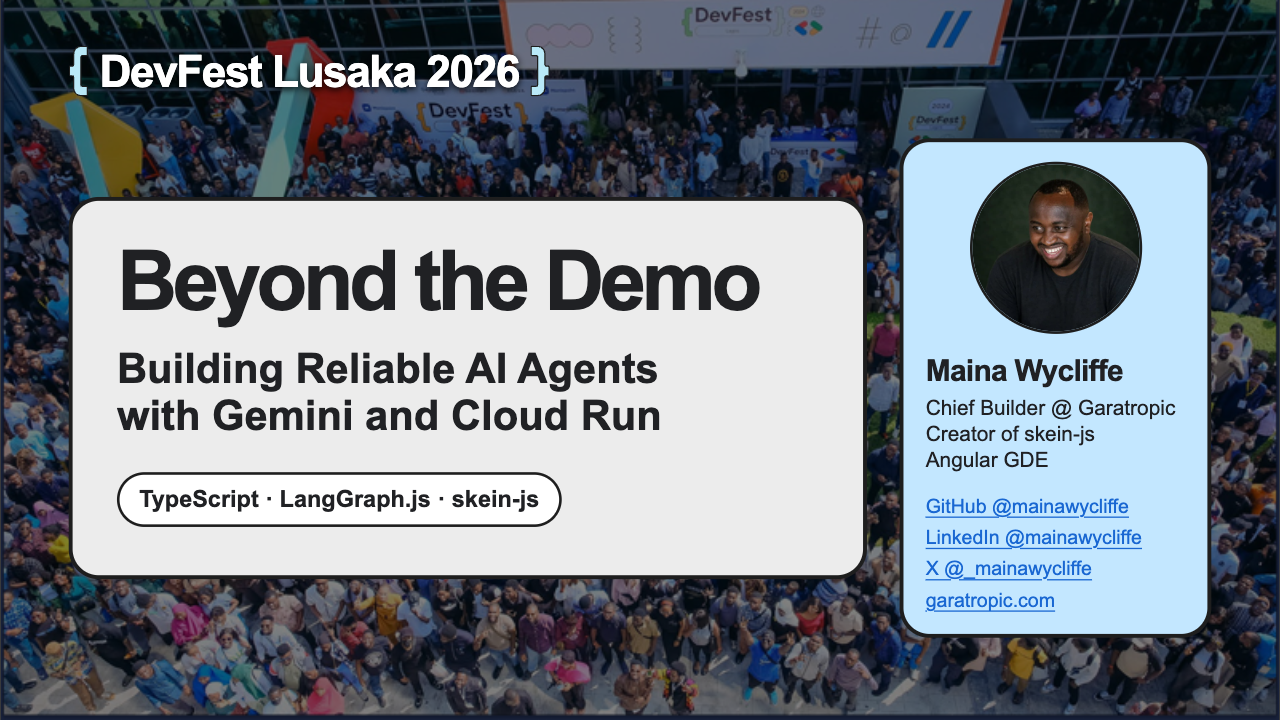
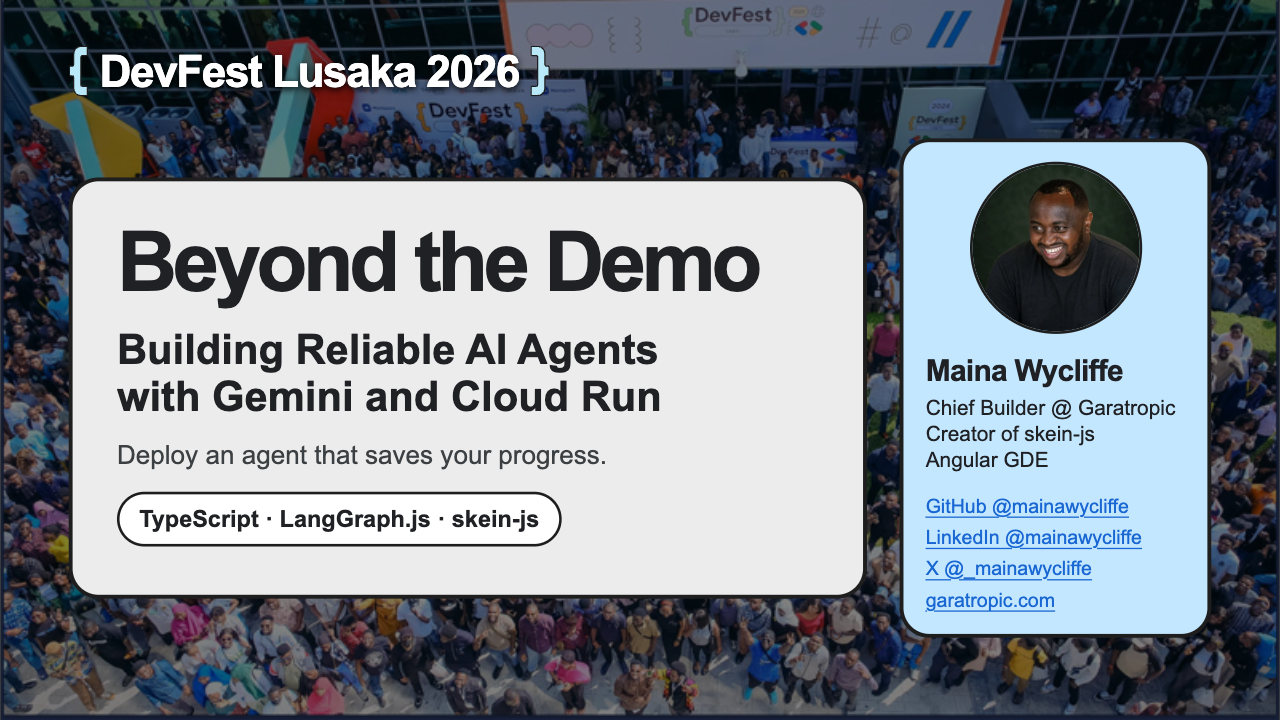
Simplify the DevFest Lusaka workshop slides

Changed region(s): [[0.0312, 0.2444, 0.6875, 0.7639], [0.0312, 0.7639, 0.6875, 0.8556]]

diff --git a/slides/devfest-lusaka-2026/style.css b/slides/devfest-lusaka-2026/style.css
@@ -69,7 +69,8 @@
 .cover-title-card { padding: 31px 34px 37px; background: var(--hero-panel); }
 .cover h1 { margin: 0 0 17px; font-size: 64px; line-height: 0.99; letter-spacing: -0.055em; }
 .slidev-layout .cover-subtitle { margin: 0; color: var(--ink); font-size: 32px; font-weight: 650; line-height: 1.13; opacity: 1; }
-.slidev-layout .cover-stack { display: inline-block; margin: 24px 0 0; padding: 7px 15px; border: 2px solid var(--outline); border-radius: 99px; background: var(--paper); font-size: 18px; font-weight: 650; }
+.slidev-layout .cover-goal { margin: 14px 0 0; color: var(--muted); font-size: 20px; }
+.slidev-layout .cover-stack { display: inline-block; margin: 16px 0 0; padding: 7px 15px; border: 2px solid var(--outline); border-radius: 99px; background: var(--paper); font-size: 18px; font-weight: 650; }
 .cover-speaker { overflow: hidden; background: var(--hero-blue); }
 .cover-speaker img { display: block; width: 132px; height: 132px; margin: 15px auto 0; border: 2px solid var(--outline); border-radius: 50%; object-fit: cover; object-position: center 44%; }
 .slidev-layout .cover-speaker figcaption { margin: 0; padding: 13px 17px 16px; color: var(--ink); }
@@ -86,7 +87,6 @@
 .playground-preview video { height: 100%; }
 .slidev-layout .hero-question blockquote { margin: 0 0 16px; padding: 11px 14px; border: 1px solid var(--border); border-radius: 9px; background: var(--blue-soft); color: var(--ink); font-size: 23px; line-height: 1.3; }
 .hero-question blockquote strong { white-space: nowrap; }
-.slidev-layout .demo-prompt { color: var(--muted); opacity: 1; }
 .slidev-layout .slide-lead { color: var(--muted); }
 .slidev-layout .callout { margin: 18px 0; padding: 10px 14px; border: 1px solid var(--border); border-left: 5px solid var(--blue); border-radius: 9px; background: var(--paper); color: var(--ink); }
 

diff --git a/slides/devfest-lusaka-2026/slides.md b/slides/devfest-lusaka-2026/slides.md
@@ -23,6 +23,7 @@ fonts:
     <div class="cover-title-card">
       <h1>Beyond the Demo</h1>
       <p class="cover-subtitle">Building Reliable AI Agents<br />with Gemini and Cloud Run</p>
+      <p class="cover-goal">Deploy an agent that saves your progress.</p>
       <p class="cover-stack">TypeScript · LangGraph.js · skein-js</p>
     </div>
     <figure class="cover-speaker">
@@ -44,7 +45,7 @@ fonts:
 <!--
 0:00–2:00
 
-I’m Maina Wycliffe, Chief Builder at Garatropic, an Angular GDE, and the creator of skein-js. Imagine you maintain a GitHub repository and want a dashboard you can review before sharing with your team. We’ll follow that request through a TypeScript agent, interrupt the connection, and see whether we can pick up the same draft. You can follow the demo on screen and repeat it later with the codelab.
+I’m Maina Wycliffe, Chief Builder at Garatropic, an Angular GDE, and the creator of skein-js. We’ll see how to deploy a TypeScript agent that saves your work. We’ll ask the demo for a GitHub dashboard, close the tab, and come back to the same draft to approve it. I’ll share a guide you can follow on your own machine.
 
 https://gdg.community.dev/events/details/google-gdg-lusaka-presents-devfest-lusaka-2026/
 DevFest hero imagery and brackets https://developers.google.com/community/devfest/
@@ -52,7 +53,7 @@ DevFest hero imagery and brackets https://developers.google.com/community/devfes
 
 ---
 
-# The connection drops mid-draft
+# Your connection drops
 
 <script setup>
 const previewPoster = import.meta.env.BASE_URL + 'workshop/images/stream.jpg'
@@ -80,7 +81,7 @@ Read the prompt as the playground recording starts. Send starts the request. Pau
 
 # What is LangGraph.js?
 
-<p class="slide-lead">A TypeScript library for running workflows as graphs.</p>
+<p class="slide-lead">A TypeScript library for building workflows.</p>
 
 <div class="flow" role="group" aria-label="Dashboard workflow">
   <div><strong>Read GitHub</strong></div>
@@ -92,8 +93,8 @@ Read the prompt as the playground recording starts. Send starts the request. Pau
 
 <div class="terms">
   <div><strong>Node</strong><span>A step</span></div>
-  <div><strong>Edge</strong><span>A route</span></div>
-  <div><strong>State</strong><span>Data between steps</span></div>
+  <div><strong>Edge</strong><span>Where to go next</span></div>
+  <div><strong>State</strong><span>Data each step can use</span></div>
 </div>
 
 <!--
@@ -106,12 +107,10 @@ https://docs.langchain.com/oss/javascript/langgraph/graph-api
 
 ---
 
-# Gemini on Vertex AI builds the draft
-
-<p class="demo-prompt">“Build a dashboard for <strong>skein-js/skein-js</strong> with its description, stars, and forks.”</p>
+# Gemini on Vertex AI drafts the dashboard
 
 <div class="flow draft-flow" role="group" aria-label="From GitHub lookup to dashboard">
-  <div><strong>Gemini requests a lookup</strong><span><code>get_github_repository</code></span></div>
+  <div><strong>Gemini asks for GitHub data</strong><span><code>get_github_repository</code></span></div>
   <span aria-hidden="true">→</span>
   <div><strong>LangGraph reads GitHub</strong><span>Description · Stars · Forks</span></div>
   <span class="draft-next" aria-hidden="true">↓</span>
@@ -134,12 +133,12 @@ https://github.com/skein-js/skein-js/blob/1b1a4d4018d1dad718054cd4f71d65f582e653
 
 ---
 
-# A thread carries context across runs
+# The same URL opens the same chat
 
 <div class="terms">
-  <div><strong>Thread</strong><span>Conversation + workflow state</span></div>
-  <div><strong>Run</strong><span>One execution</span></div>
-  <div><strong>Checkpoint</strong><span>Saved state at one step</span></div>
+  <div><strong>Thread</strong><span>The chat and its saved work</span></div>
+  <div><strong>Run</strong><span>One job for the agent</span></div>
+  <div><strong>Checkpoint</strong><span>Work saved at a step</span></div>
 </div>
 
 <p class="callout"><code>?thread=…</code> <span aria-hidden="true">→</span> Original prompt · Saved draft · Pending review</p>
@@ -155,14 +154,14 @@ https://skein.js.org/threads
 
 ---
 
-# The graph pauses for approval
+# The agent waits for your approval
 
 <div class="flow" role="group" aria-label="Human approval workflow">
-  <div><strong>Save</strong><span>Dashboard draft</span></div>
+  <div><strong>Save the draft</strong></div>
   <span aria-hidden="true">→</span>
-  <div><strong>Pause</strong><span>Wait for review</span></div>
+  <div><strong>Wait for approval</strong></div>
   <span aria-hidden="true">→</span>
-  <div><strong>Resume</strong><span>Record the decision</span></div>
+  <div><strong>Record the decision</strong></div>
 </div>
 
 ```ts
@@ -182,11 +181,11 @@ https://github.com/skein-js/skein-js/blob/1b1a4d4018d1dad718054cd4f71d65f582e653
 
 ---
 
-# Why does the graph need a backend?
+# Why put the agent on a server?
 
 <div class="comparison">
-  <div><h2>Local script</h2><p>Run <span aria-hidden="true">→</span> Print</p></div>
-  <div><h2>Web app</h2><p>Start <span aria-hidden="true">→</span> Stream <span aria-hidden="true">→</span> Return</p></div>
+  <div><h2>Local script</h2><p>Run <span aria-hidden="true">→</span> Print a result</p></div>
+  <div><h2>Web app</h2><p>Send <span aria-hidden="true">→</span> Watch <span aria-hidden="true">→</span> Reopen</p></div>
 </div>
 
 <!--
@@ -201,16 +200,16 @@ The script can print a dashboard while you wait. Walk the web app through starti
 
 <div class="split runtime">
   <div>
-    <div class="brand"><img src="/skein-knot.svg" alt="" /> <span>Open-source TypeScript runtime</span></div>
+    <div class="brand"><img src="/skein-knot.svg" alt="" /> <span>Hosts your LangGraph.js agent</span></div>
     <figure class="building-blocks">
       <video controls playsinline preload="none" src="/workshop/skein-building-blocks.mp4" poster="/workshop/images/building-blocks.png" aria-label="Skein building blocks, illustrated with a weather request"></video>
       <figcaption><a href="./workshop/index.html#building-blocks">Weather example</a> · 14 seconds</figcaption>
     </figure>
   </div>
   <div class="runtime-diagram" role="group" aria-label="Skein runtime layers">
-    <div><strong>Browser / SDK</strong></div>
+    <div><strong>Browser</strong></div>
     <span aria-hidden="true">↕</span>
-    <div class="runtime-boundary"><strong>skein-js</strong><span>Threads · Streams · Workers</span><div class="graph"><strong>LangGraph.js</strong><span>Your workflow</span></div></div>
+    <div class="runtime-boundary"><strong>skein-js</strong><span>Start runs · Send updates · Save progress</span><div class="graph"><strong>LangGraph.js</strong><span>Runs the workflow</span></div></div>
     <span aria-hidden="true">↕</span>
     <div><strong>Vertex AI · GitHub</strong></div>
   </div>
@@ -219,7 +218,7 @@ The script can print a dashboard while you wait. Walk the web app through starti
 <!--
 17:00–20:00
 
-I built skein-js because I wanted to host a TypeScript graph I already had. Start at the browser or compatible SDK. LangGraph.js executes the graph and defines where it pauses. Skein hosts the graph, exposes an Agent Protocol API and console, and runs workers so the browser can follow progress and return to the same thread. Self-hosting makes the application team responsible for identity, infrastructure, and operations. Show where Gemini and GitHub fit. Play the 14-second weather illustration if time allows. It uses the same division of work with a different tool. Then show how Skein discovers our dashboard graph.
+I built skein-js because I wanted to host a TypeScript graph I already had. It’s an open-source TypeScript runtime. LangGraph.js runs the workflow and defines where it pauses. Skein starts runs, sends progress to the browser, and brings back saved work. Its Agent Protocol API also lets compatible clients talk to it. When you host it yourself, you manage identity, infrastructure, and operations. Play the weather example if time allows. It uses the same parts with a different tool.
 
 https://skein.js.org/
 https://skein.js.org/building-blocks
@@ -227,7 +226,7 @@ https://skein.js.org/building-blocks
 
 ---
 
-# How Skein finds your graph
+# Tell Skein which graph to run
 
 <div class="flow" role="group" aria-label="Graph registration">
   <div><strong><code>skein dev</code></strong></div>
@@ -256,17 +255,17 @@ https://github.com/skein-js/skein-js/blob/1b1a4d4018d1dad718054cd4f71d65f582e653
 
 ---
 
-# A run can outlive its stream
+# The agent can keep working
 
 <div class="timeline" role="group" aria-label="Browser stream and background run">
-  <div><strong>Start</strong><span>Run ID</span></div>
+  <div><strong>Send</strong><span>Start a run</span></div>
   <div><strong>Watch</strong><span>Live updates</span></div>
-  <div><strong>Pause updates</strong><span>Stream closes</span></div>
-  <div><strong>Reconnect</strong><span>Rejoin or restore</span></div>
-  <div class="run-track"><strong>The run can continue</strong><span aria-hidden="true"></span></div>
+  <div><strong>Pause updates</strong><span>Stop watching</span></div>
+  <div><strong>Reconnect</strong><span>See the latest progress</span></div>
+  <div class="run-track"><strong>Work can continue on the server</strong><span aria-hidden="true"></span></div>
 </div>
 
-<p class="callout">What would <strong>Stop run</strong> do?</p>
+<p class="callout">What does <strong>Stop run</strong> do?</p>
 
 <!--
 22:00–25:00
@@ -279,17 +278,17 @@ https://skein.js.org/background-jobs
 
 ---
 
-# The production stack on Google Cloud
+# Where the demo runs
 
 <div class="cloud-diagram" role="group" aria-label="The demo’s Google Cloud architecture">
   <div class="cloud-tier"><strong>Browser</strong><span>Angular · A2UI</span></div>
   <span class="cloud-arrow" aria-hidden="true">↕</span>
-  <div class="cloud-tier cloud-boundary"><strong>Cloud Run</strong><span>Skein API + worker · LangGraph.js</span></div>
+  <div class="cloud-tier cloud-boundary"><strong>Cloud Run</strong><span>Web app · Skein · LangGraph.js</span></div>
   <span class="cloud-arrow" aria-hidden="true">↕</span>
   <div class="cloud-services">
     <div class="cloud-tier"><strong>Vertex AI</strong><span>Gemini 3.5 Flash-Lite</span></div>
-    <div class="cloud-tier"><strong>Cloud SQL for PostgreSQL</strong><span>Threads · Checkpoints</span></div>
-    <div class="cloud-tier"><strong>Memorystore for Redis</strong><span>Run queue · Live events</span></div>
+    <div class="cloud-tier"><strong>Cloud SQL for PostgreSQL</strong><span>Saved chats · Drafts · Approvals</span></div>
+    <div class="cloud-tier"><strong>Memorystore for Redis</strong><span>Queued work · Live updates</span></div>
   </div>
 </div>
 
@@ -307,22 +306,22 @@ https://docs.cloud.google.com/run/docs/deploying#sidecars
 
 ---
 
-# Cloud Run worker settings
+# Keep the agent working on Cloud Run
 
 <div class="terms term-stack">
-  <div><strong>CPU</strong><span>Instance-based billing + warm instance</span></div>
-  <div><strong>Concurrency</strong><span>HTTP requests · Worker runs</span></div>
-  <div><strong>Timeout</strong><span>Reconnect the stream</span></div>
+  <div><strong>CPU</strong><span>Keep it available between requests</span></div>
+  <div><strong>Concurrency</strong><span>Set separate limits for requests and runs</span></div>
+  <div><strong>Timeout</strong><span>Reconnect when the connection closes</span></div>
 </div>
 
-<p class="callout">Rehearsal <span aria-hidden="true">·</span> New Cloud Run revision <span aria-hidden="true">→</span> Same pending review</p>
+<p class="callout">In rehearsal, a new deployment opened the same draft.</p>
 
 <p><Link to="cloud-setup">Cloud Run deployment guide</Link></p>
 
 <!--
 29:00–33:00
 
-The start-run request can return while the work is still in Redis. The worker needs CPU between requests to pull jobs. A warm instance costs money and can still be replaced. Our demo limits active worker runs separately from HTTP requests. Budget Cloud SQL connections as instances scale. A stream can time out. Reconnect or reload the saved state. In rehearsal, the new revision loaded the pending review from the same Cloud SQL database and completed approval without rerunning the model. An in-flight model call may fail during replacement. Run recovery and idempotent side effects need their own design. Point to the Cloud Run deployment guide for attendees who want to deploy their own graph.
+The browser can start a run and get a response while the work is still in Redis. Keep CPU available between requests with instance-based billing and a warm instance. The warm instance costs money and can still be replaced. Limit HTTP requests and worker runs separately, and leave room for Cloud SQL connections as instances scale. If a stream times out, reconnect or load the saved draft. In rehearsal, a new revision opened the draft from Cloud SQL and completed approval without asking Gemini to generate it again. A model call can still fail during replacement. If you retry work that changes something outside the app, plan how to avoid doing it twice. Point to the deployment guide.
 
 https://docs.cloud.google.com/run/docs/configuring/billing-settings
 https://docs.cloud.google.com/run/docs/about-concurrency
@@ -332,13 +331,13 @@ https://skein.js.org/deploy-cloud-run
 
 ---
 
-# The dashboard is ready for review
+# The dashboard is ready to approve
 
 <div class="split dashboard-demo">
   <div class="dashboard-steps">
     <strong>A2UI JSON</strong>
     <span aria-hidden="true">↓</span>
-    <strong>Angular components</strong>
+    <strong>Dashboard in Angular</strong>
     <p class="callout"><strong>Approve UI</strong></p>
   </div>
   <img src="/workshop/images/review.jpg" alt="The validated GitHub dashboard in the A2UI playground with the app’s Approve UI control" />
@@ -354,13 +353,13 @@ https://skein.js.org/recipes/a2ui
 
 ---
 
-# Can we recover the draft?
+# Open the same chat again
 
 <div class="split live-exercise">
   <ol>
     <li>Send the prompt</li>
     <li><strong>Pause updates</strong> <span aria-hidden="true">→</span> <strong>Reconnect</strong></li>
-    <li>Reopen the same URL</li>
+    <li>Close the tab <span aria-hidden="true">→</span> Open the same link</li>
     <li><strong>Approve UI</strong></li>
   </ol>
   <div class="replay-frames">
@@ -383,8 +382,8 @@ Start a fresh thread in the authenticated deployment and send the opening prompt
 <div class="end-frame">
   <div class="end-card">
     <div>
-      <h1>Try the recovery yourself</h1>
-      <p>2-minute browser replay · Local TypeScript codelab</p>
+      <h1>Try the dashboard demo</h1>
+      <p>Watch the replay or run it on your machine.</p>
       <nav class="speaker-socials" aria-label="Maina Wycliffe’s profiles and company website">
         <a href="https://github.com/mainawycliffe">GitHub @mainawycliffe</a>
         <a href="https://www.linkedin.com/in/mainawycliffe/">LinkedIn @mainawycliffe</a>
@@ -394,7 +393,7 @@ Start a fresh thread in the authenticated deployment and send the opening prompt
     </div>
     <figure class="qr-block">
       <img src="/workshop-qr.png" alt="QR code linking to the DevFest Lusaka workshop materials" />
-      <figcaption><a href="./workshop/index.html">Open the replay and codelab</a></figcaption>
+      <figcaption><a href="./workshop/index.html">Open the workshop</a></figcaption>
     </figure>
   </div>
 </div>
@@ -402,7 +401,7 @@ Start a fresh thread in the authenticated deployment and send the opening prompt
 <!--
 41:00–45:00
 
-Give attendees time to save the link. Open the two-minute replay and ask people to predict what they’ll see when they reopen the chat. They can reveal the result in their browser without creating an account. The local lab uses the existing TypeScript example and an AI Studio key. Start with SQLite, restart Skein before approving the draft, then try a follow-up on the same thread. For Q&A, ask which user action in their own app ought to survive closing a tab. Leave this slide visible.
+Give attendees time to scan the link. They can watch the two-minute replay in a browser without an account. In the local lab, they’ll run the TypeScript example, reopen the same draft after restarting the server, and try a follow-up in the same chat. Ask what work their own users should be able to return to. Leave this slide visible for Q&A.
 -->
 
 ---
@@ -417,7 +416,7 @@ routeAlias: cloud-setup
       <img src="/skein-knot.svg" alt="" />
       <a href="https://skein.js.org/deploy-cloud-run">skein.js.org/deploy-cloud-run</a>
     </div>
-    <p class="slide-lead">Build the container · Connect Postgres and Redis · Verify a background run</p>
+    <p class="slide-lead">Build the image · Add Postgres and Redis · Test a run</p>
   </div>
   <figure class="qr-block">
     <img src="/deck-qr.png" alt="QR code linking to the published DevFest Lusaka workshop slides" />

diff --git a/slides/devfest-lusaka-2026/README.md b/slides/devfest-lusaka-2026/README.md
@@ -2,7 +2,7 @@
 
 **Beyond the Demo: Building Reliable AI Agents with Gemini and Cloud Run**
 
-Maina Wycliffe presents a 45-minute guided workshop for beginner and intermediate developers. The audience follows one GitHub dashboard from a dropped connection to a saved approval. The hosted demo uses Gemini on Vertex AI. Students can start with the two-minute browser replay, then run the demo locally and make a dashboard of their own. [Replay and codelab](public/workshop/index.html)
+Maina Wycliffe presents a 45-minute guided workshop for beginner and intermediate developers. The goal is to deploy an AI agent that saves your work. Attendees follow a GitHub dashboard from a lost connection to reopening the same draft and approving it. The hosted demo uses Gemini on Vertex AI. Try the two-minute replay, then run the demo locally and make a dashboard of your own. [Workshop](public/workshop/index.html)
 
 Use the organizer's speaker instructions for your slot and joining link. [DevFest Lusaka event listing](https://gdg.community.dev/events/details/google-gdg-lusaka-presents-devfest-lusaka-2026/)
 
@@ -13,7 +13,7 @@ npm ci
 npm run dev
 ```
 
-Use Node 22.12 or newer for the slides. Open the URL Slidev prints for the audience and `/presenter` for the timed speaker notes. The playground clip plays when you reach slide 2. On the recovery slide, press Right to show the restored draft, then the approval. The Skein slide includes the 14-second building-blocks animation. The README for the [private deployment](../../demos/devfest-lusaka-2026/README.md) records the runtime setup and rehearsal checklist.
+Use Node 22.12 or newer for the slides. Open the URL Slidev prints for the audience and `/presenter` for the timed speaker notes. The playground clip plays when you reach slide 2. On slide 14, press Right to show the saved draft after reopening the chat, then the approval. The Skein slide includes the 14-second building-blocks animation. The README for the [private deployment](../../demos/devfest-lusaka-2026/README.md) records the runtime setup and rehearsal checklist.
 
 The Cloud Run worker settings slide links to the deployment resource after the closing slide. [Skein Cloud Run deployment guide](https://skein.js.org/deploy-cloud-run)
 
